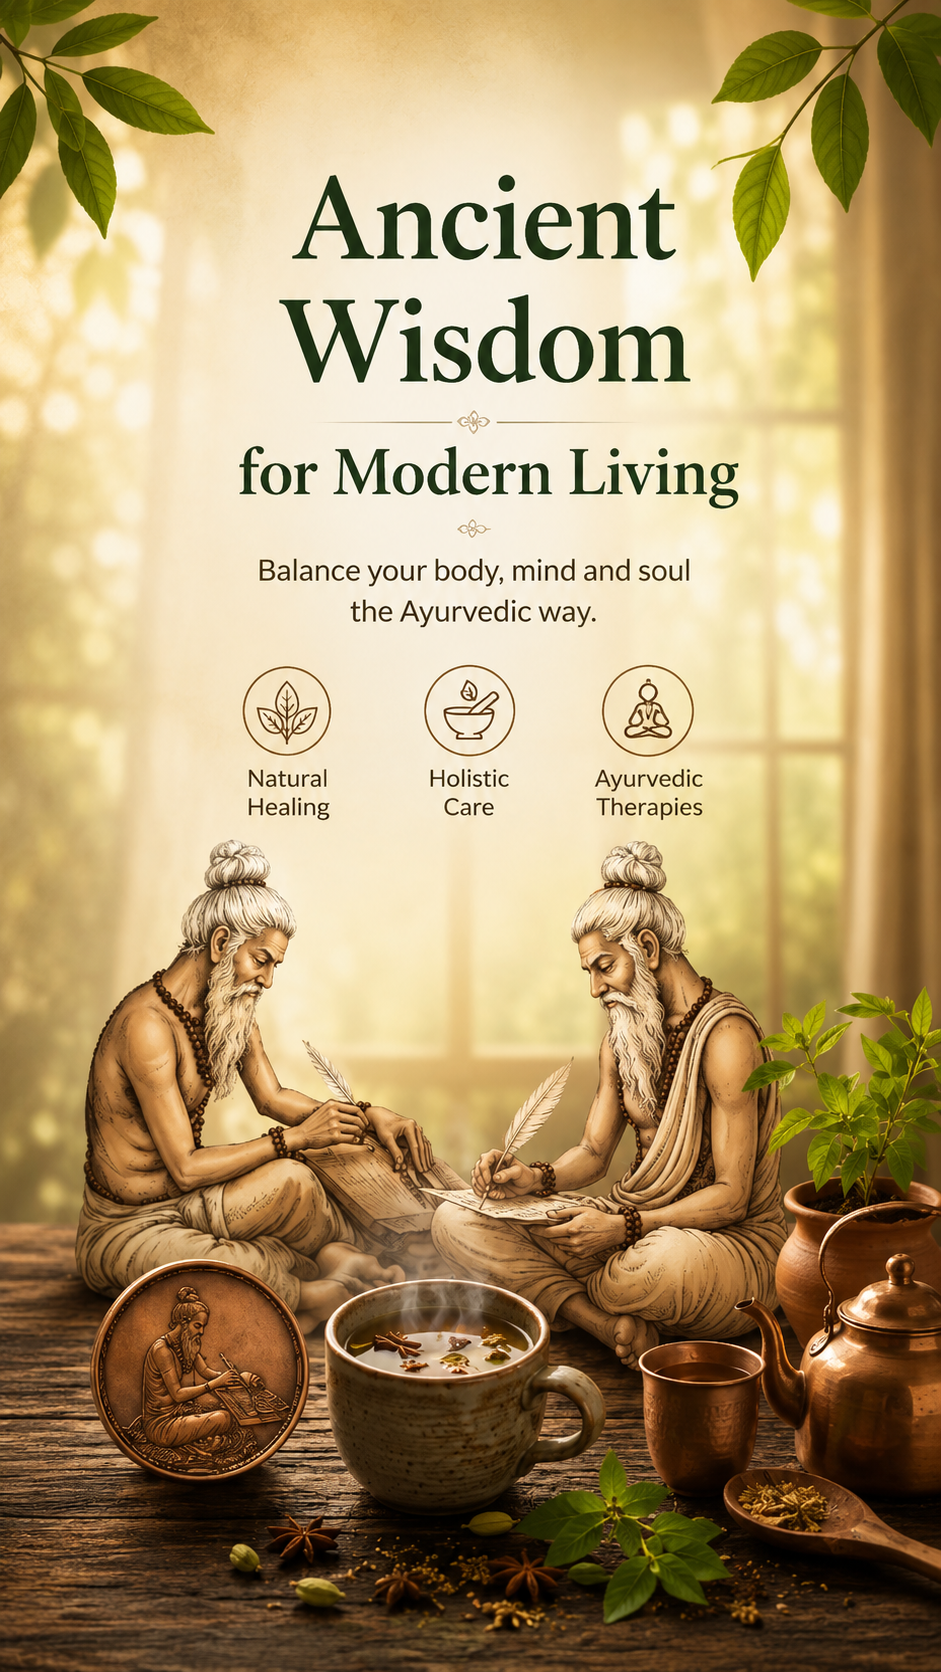
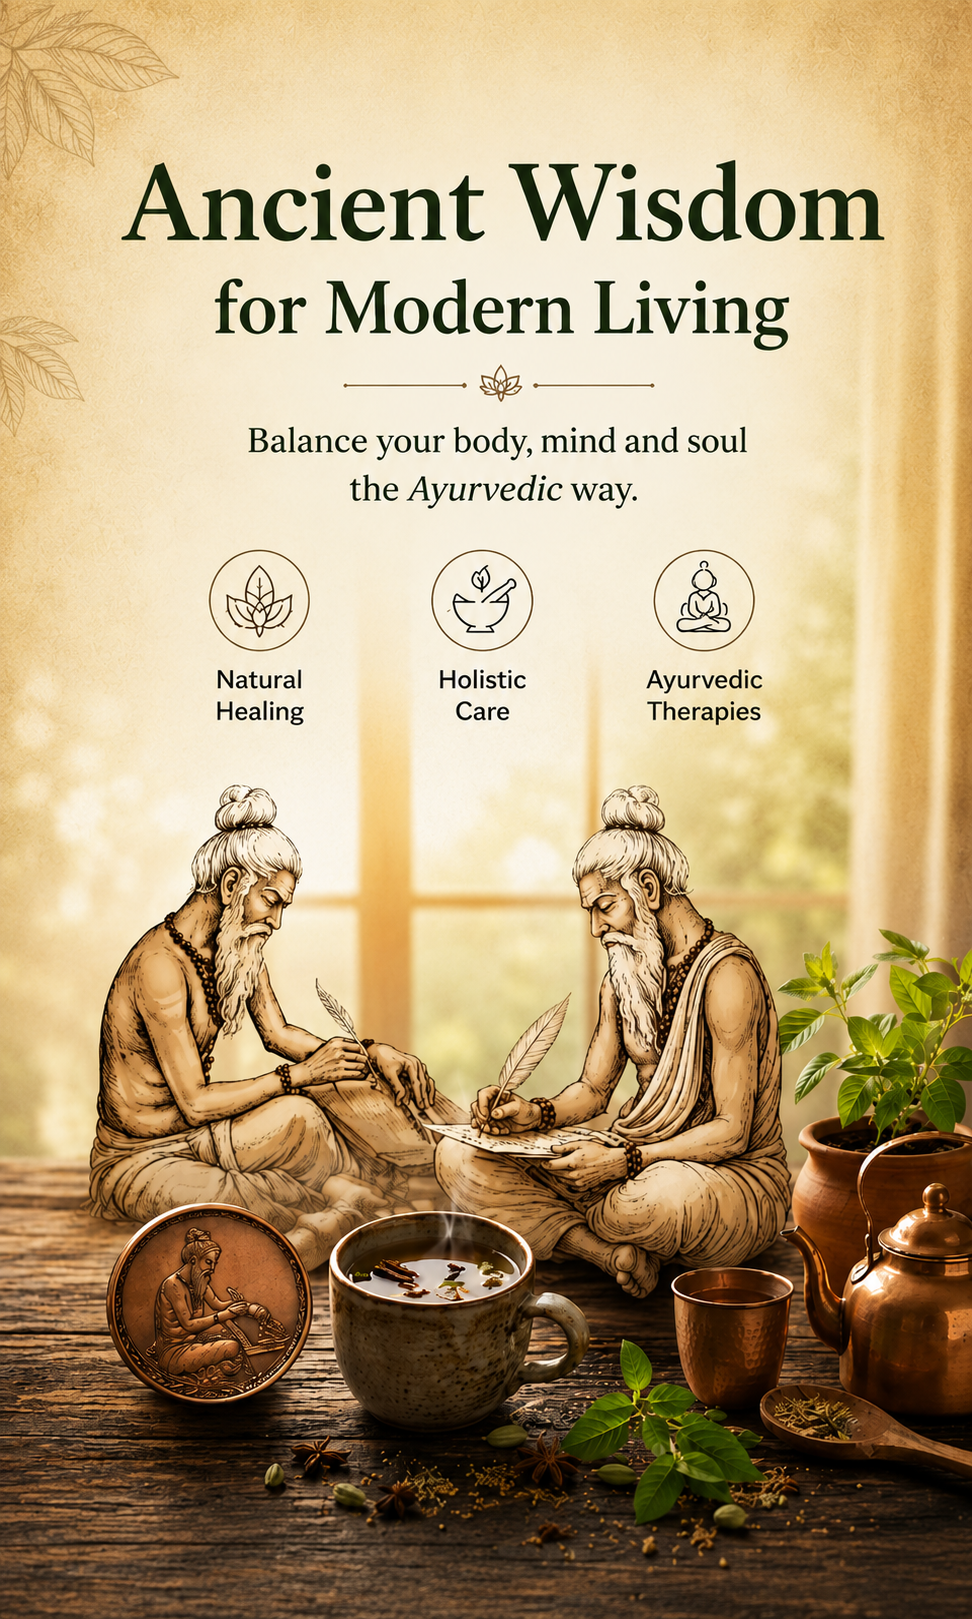
Initial commit

diff --git a/src/pages/Index.tsx b/src/pages/Index.tsx
@@ -10,6 +10,7 @@ import {
   Stethoscope, Leaf, HeartPulse, Apple, Brain, Weight,
   Sparkles, Bone, Activity, Star, ArrowRight, Quote,
 } from "lucide-react";
+
 const bannerImages = Object.entries(
   import.meta.glob("@/assets/homebanners/fordesktop/*.{jpg,jpeg,png,webp}", {
     eager: true,
@@ -54,20 +55,68 @@ const fadeUp = {
 
 const Index = () => {
   const [heroIndex, setHeroIndex] = useState(0);
+  const [isMobile, setIsMobile] = useState(false);
+  const [imageKey, setImageKey] = useState(0);
 
   useEffect(() => {
     if (bannerImages.length === 0) return;
 
+    // Initial check
+    const checkMobile = () => {
+      const mobile = window.innerWidth <= 640;
+      console.log("Window width:", window.innerWidth, "Is mobile:", mobile);
+      setIsMobile(mobile);
+      // Force image refresh when device type changes
+      setImageKey(prev => prev + 1);
+    };
+
+    checkMobile();
+
+    // Add resize listener with debounce
+    let resizeTimeout: NodeJS.Timeout;
+    const handleResize = () => {
+      clearTimeout(resizeTimeout);
+      resizeTimeout = setTimeout(() => {
+        checkMobile();
+      }, 200);
+    };
+
+    window.addEventListener("resize", handleResize);
+
     const interval = window.setInterval(() => {
       setHeroIndex((current) => (current + 1) % bannerImages.length);
+      // Force image refresh when changing slides
+      setImageKey(prev => prev + 1);
     }, 5000);
 
-    return () => window.clearInterval(interval);
+    return () => {
+      window.clearInterval(interval);
+      window.removeEventListener("resize", handleResize);
+      clearTimeout(resizeTimeout);
+    };
   }, []);
 
+  // Get the current banner image
   const [heroPath, heroImage] = bannerImages[heroIndex] ?? ["", ""];
-  const heroName = heroPath.split("/").pop()?.replace(/\.(jpg|jpeg|png|webp)$/i, "") ?? "";
-  const mobileHeroImage = mobileBannerMap[heroName] ?? heroImage;
+  
+  // Extract filename without extension
+  const heroFileName = heroPath.split("/").pop() || "";
+  const heroName = heroFileName.replace(/\.[^.]+$/, ""); // Remove extension
+  
+  // Get mobile version - if not found, use desktop version
+  const mobileHeroImage = mobileBannerMap[heroName] || heroImage;
+  
+  // Determine which image to display based on device
+  const selectedImage = isMobile ? mobileHeroImage : heroImage;
+  
+  // Add cache-busting parameter to force reload
+  const displayedImage = `${selectedImage}?v=${imageKey}`;
+
+  // Debug logging
+  console.log("Is mobile:", isMobile);
+  console.log("Selected image type:", isMobile ? "MOBILE" : "DESKTOP");
+  console.log("Image URL:", displayedImage);
+  console.log("Hero name:", heroName);
 
   return (
     <>
@@ -78,41 +127,54 @@ const Index = () => {
       <section className="relative min-h-[85vh] overflow-hidden">
         {/* Background Image */}
         <div className="absolute inset-0 bg-black">
-          <picture>
-            <source media="(max-width: 640px)" srcSet={mobileHeroImage} />
+          {displayedImage && (
             <img
-              src={heroImage}
+              src={displayedImage}
               alt="Ayurvedic herbs and healing oils"
               className="w-full h-full object-cover object-left md:object-center transition-opacity duration-700"
+              key={displayedImage}
+              onLoad={() => {
+                console.log("✅ Image loaded successfully:", displayedImage);
+              }}
+              onError={(e) => {
+                console.error("❌ Failed to load image:", displayedImage);
+                // Fallback to desktop version if mobile fails
+                if (isMobile) {
+                  const target = e.target as HTMLImageElement;
+                  const fallbackImage = `${heroImage}?v=${imageKey}`;
+                  target.src = fallbackImage;
+                  console.log("🔄 Falling back to desktop image:", fallbackImage);
+                }
+              }}
             />
-          </picture>
+          )}
           <div className="absolute inset-0 bg-black/20" />
         </div>
 
         {/* Buttons */}
-        <div className="absolute bottom-2 left-6 z-20 flex flex-wrap gap-4">
-          <Button size="lg"
-           variant="outline" 
-           className="border-white text-black"
-           asChild
-          >
-            <Link to="/consultation">
-              Book Appointment
-              <ArrowRight className="ml-2 h-4 w-4" />
-            </Link>
-          </Button>
+       <div className="absolute bottom-2 left-6 z-20 flex flex-wrap gap-2 sm:gap-4">
+  <Button
+    size="default"
+    className="border-white text-black text-xs sm:text-sm md:text-base px-3 sm:px-4 md:px-6 py-1.5 sm:py-2 md:py-2.5"
+    variant="outline"
+    asChild
+  >
+    <Link to="/consultation">
+      Book Appointment
+      <ArrowRight className="ml-1 sm:ml-2 h-3 w-3 sm:h-4 sm:w-4" />
+    </Link>
+  </Button>
 
-          <Button
-            size="lg"
-            variant="outline"
-            className="border-white text-black"
-            asChild
-          >
-            <Link to="/services">Our Services</Link>
-          </Button>
-        </div>
+  <Button
+    size="default"
+    className="border-white text-black text-xs sm:text-sm md:text-base px-3 sm:px-4 md:px-6 py-1.5 sm:py-2 md:py-2.5"
+    variant="outline"
+    asChild
+  >
+    <Link to="/services">Our Services</Link>
+  </Button>
+</div>
       </section>
-          
 
       {/* Services Highlight */}
       <section className="py-20 bg-secondary/50">
@@ -188,97 +250,96 @@ const Index = () => {
         </div>
       </section>
 
-
+      {/* Doctor Profile */}
       <section className="py-16 bg-white">
-  <div className="container mx-auto px-4">
-    <div className="grid lg:grid-cols-[220px_1fr] gap-10 items-center">
+        <div className="container mx-auto px-4">
+          <div className="grid lg:grid-cols-[220px_1fr] gap-10 items-center">
+            {/* Image */}
+            <motion.div
+              initial={{ opacity: 0, x: -30 }}
+              whileInView={{ opacity: 1, x: 0 }}
+              viewport={{ once: true }}
+              className="flex justify-center"
+            >
+              <img
+                src={doctorImage}
+                alt="Dr. Harsh Vardhan Sharma"
+                className="w-44 h-44 rounded-full object-cover border-4 border-primary/10 shadow-xl"
+              />
+            </motion.div>
 
-      {/* Image */}
-      <motion.div
-        initial={{ opacity: 0, x: -30 }}
-        whileInView={{ opacity: 1, x: 0 }}
-        viewport={{ once: true }}
-        className="flex justify-center"
-      >
-        <img
-          src={doctorImage}
-          alt="Dr. Harsh Vardhan Sharma"
-          className="w-44 h-44 rounded-full object-cover border-4 border-primary/10 shadow-xl"
-        />
-      </motion.div>
+            {/* Content */}
+            <motion.div
+              initial={{ opacity: 0, x: 30 }}
+              whileInView={{ opacity: 1, x: 0 }}
+              viewport={{ once: true }}
+            >
+              <span className="text-primary uppercase tracking-[0.2em] text-sm font-semibold">
+                Meet Your Doctor
+              </span>
 
-      {/* Content */}
-      <motion.div
-        initial={{ opacity: 0, x: 30 }}
-        whileInView={{ opacity: 1, x: 0 }}
-        viewport={{ once: true }}
-      >
-        <span className="text-primary uppercase tracking-[0.2em] text-sm font-semibold">
-          Meet Your Doctor
-        </span>
+              <h2 className="mt-2 text-3xl font-bold">
+                Dr. Harsh Vardhan Sharma
+              </h2>
 
-        <h2 className="mt-2 text-3xl font-bold">
-          Dr. Harsh Vardhan Sharma
-        </h2>
+              <p className="text-primary font-medium mt-1">
+                BAMS • Ayurvedic Physician
+              </p>
 
-        <p className="text-primary font-medium mt-1">
-          BAMS • Ayurvedic Physician
-        </p>
+              <p className="mt-4 text-muted-foreground max-w-2xl">
+                Helping patients achieve long-term wellness through authentic Ayurveda,
+                Panchakarma therapies, herbal medicine, and personalized treatment
+                plans.
+              </p>
 
-        <p className="mt-4 text-muted-foreground max-w-2xl">
-          Helping patients achieve long-term wellness through authentic Ayurveda,
-          Panchakarma therapies, herbal medicine, and personalized treatment
-          plans.
-        </p>
+              <div className="flex flex-wrap gap-3 mt-5">
+                <span className="px-3 py-1 bg-primary/10 rounded-full text-sm">
+                  🌿 Ayurveda
+                </span>
+                <span className="px-3 py-1 bg-primary/10 rounded-full text-sm">
+                  🩺 Panchakarma
+                </span>
+                <span className="px-3 py-1 bg-primary/10 rounded-full text-sm">
+                  💚 Holistic Care
+                </span>
+              </div>
 
-        <div className="flex flex-wrap gap-3 mt-5">
-          <span className="px-3 py-1 bg-primary/10 rounded-full text-sm">
-            🌿 Ayurveda
-          </span>
-          <span className="px-3 py-1 bg-primary/10 rounded-full text-sm">
-            🩺 Panchakarma
-          </span>
-          <span className="px-3 py-1 bg-primary/10 rounded-full text-sm">
-            💚 Holistic Care
-          </span>
+              <Button className="mt-6" asChild>
+                <Link to="/about">
+                  View Full Profile
+                </Link>
+              </Button>
+            </motion.div>
+          </div>
         </div>
+      </section>
 
-        <Button className="mt-6" asChild>
-          <Link to="/about">
-            View Full Profile
-          </Link>
-        </Button>
-      </motion.div>
-
-    </div>
-  </div>
-</section>
-
+      {/* CTA Section */}
       <section className="py-20 bg-white border-t border-gray-100">
-  <div className="container mx-auto px-4 text-center">
-    <motion.div
-      initial={{ opacity: 0, y: 20 }}
-      whileInView={{ opacity: 1, y: 0 }}
-      viewport={{ once: true }}
-    >
-      <h2 className="font-heading text-3xl md:text-4xl font-bold text-foreground">
-        Begin Your Healing Journey Today
-      </h2>
+        <div className="container mx-auto px-4 text-center">
+          <motion.div
+            initial={{ opacity: 0, y: 20 }}
+            whileInView={{ opacity: 1, y: 0 }}
+            viewport={{ once: true }}
+          >
+            <h2 className="font-heading text-3xl md:text-4xl font-bold text-foreground">
+              Begin Your Healing Journey Today
+            </h2>
 
-      <p className="mt-4 text-muted-foreground max-w-xl mx-auto">
-        Take the first step towards natural wellness. Book a consultation with
-        Dr. Harsh Vardhan Sharma.
-      </p>
+            <p className="mt-4 text-muted-foreground max-w-xl mx-auto">
+              Take the first step towards natural wellness. Book a consultation with
+              Dr. Harsh Vardhan Sharma.
+            </p>
 
-      <Button size="lg" variant="secondary" className="mt-8" asChild>
-        <Link to="/consultation">
-          Book Free Consultation
-          <ArrowRight className="ml-2 h-4 w-4" />
-        </Link>
-      </Button>
-    </motion.div>
-  </div>
-</section>
+            <Button size="lg" variant="secondary" className="mt-8" asChild>
+              <Link to="/consultation">
+                Book Free Consultation
+                <ArrowRight className="ml-2 h-4 w-4" />
+              </Link>
+            </Button>
+          </motion.div>
+        </div>
+      </section>
     </>
   );
 };

diff --git a/src/pages/About.tsx b/src/pages/About.tsx
@@ -1,6 +1,6 @@
 import { motion } from "framer-motion";
 import SectionHeading from "@/components/SectionHeading";
-import aboutBanner from "@/assets/pagebanners/About Banner.png";
+import aboutBanner from "@/assets/pagebanners/fordesktop/About Banner.png";
 import { Heart, Eye, Target, BookOpen } from "lucide-react";
 import doctorImage from "@/assets/doctorimages/Doctor Portrait 2.png";
 